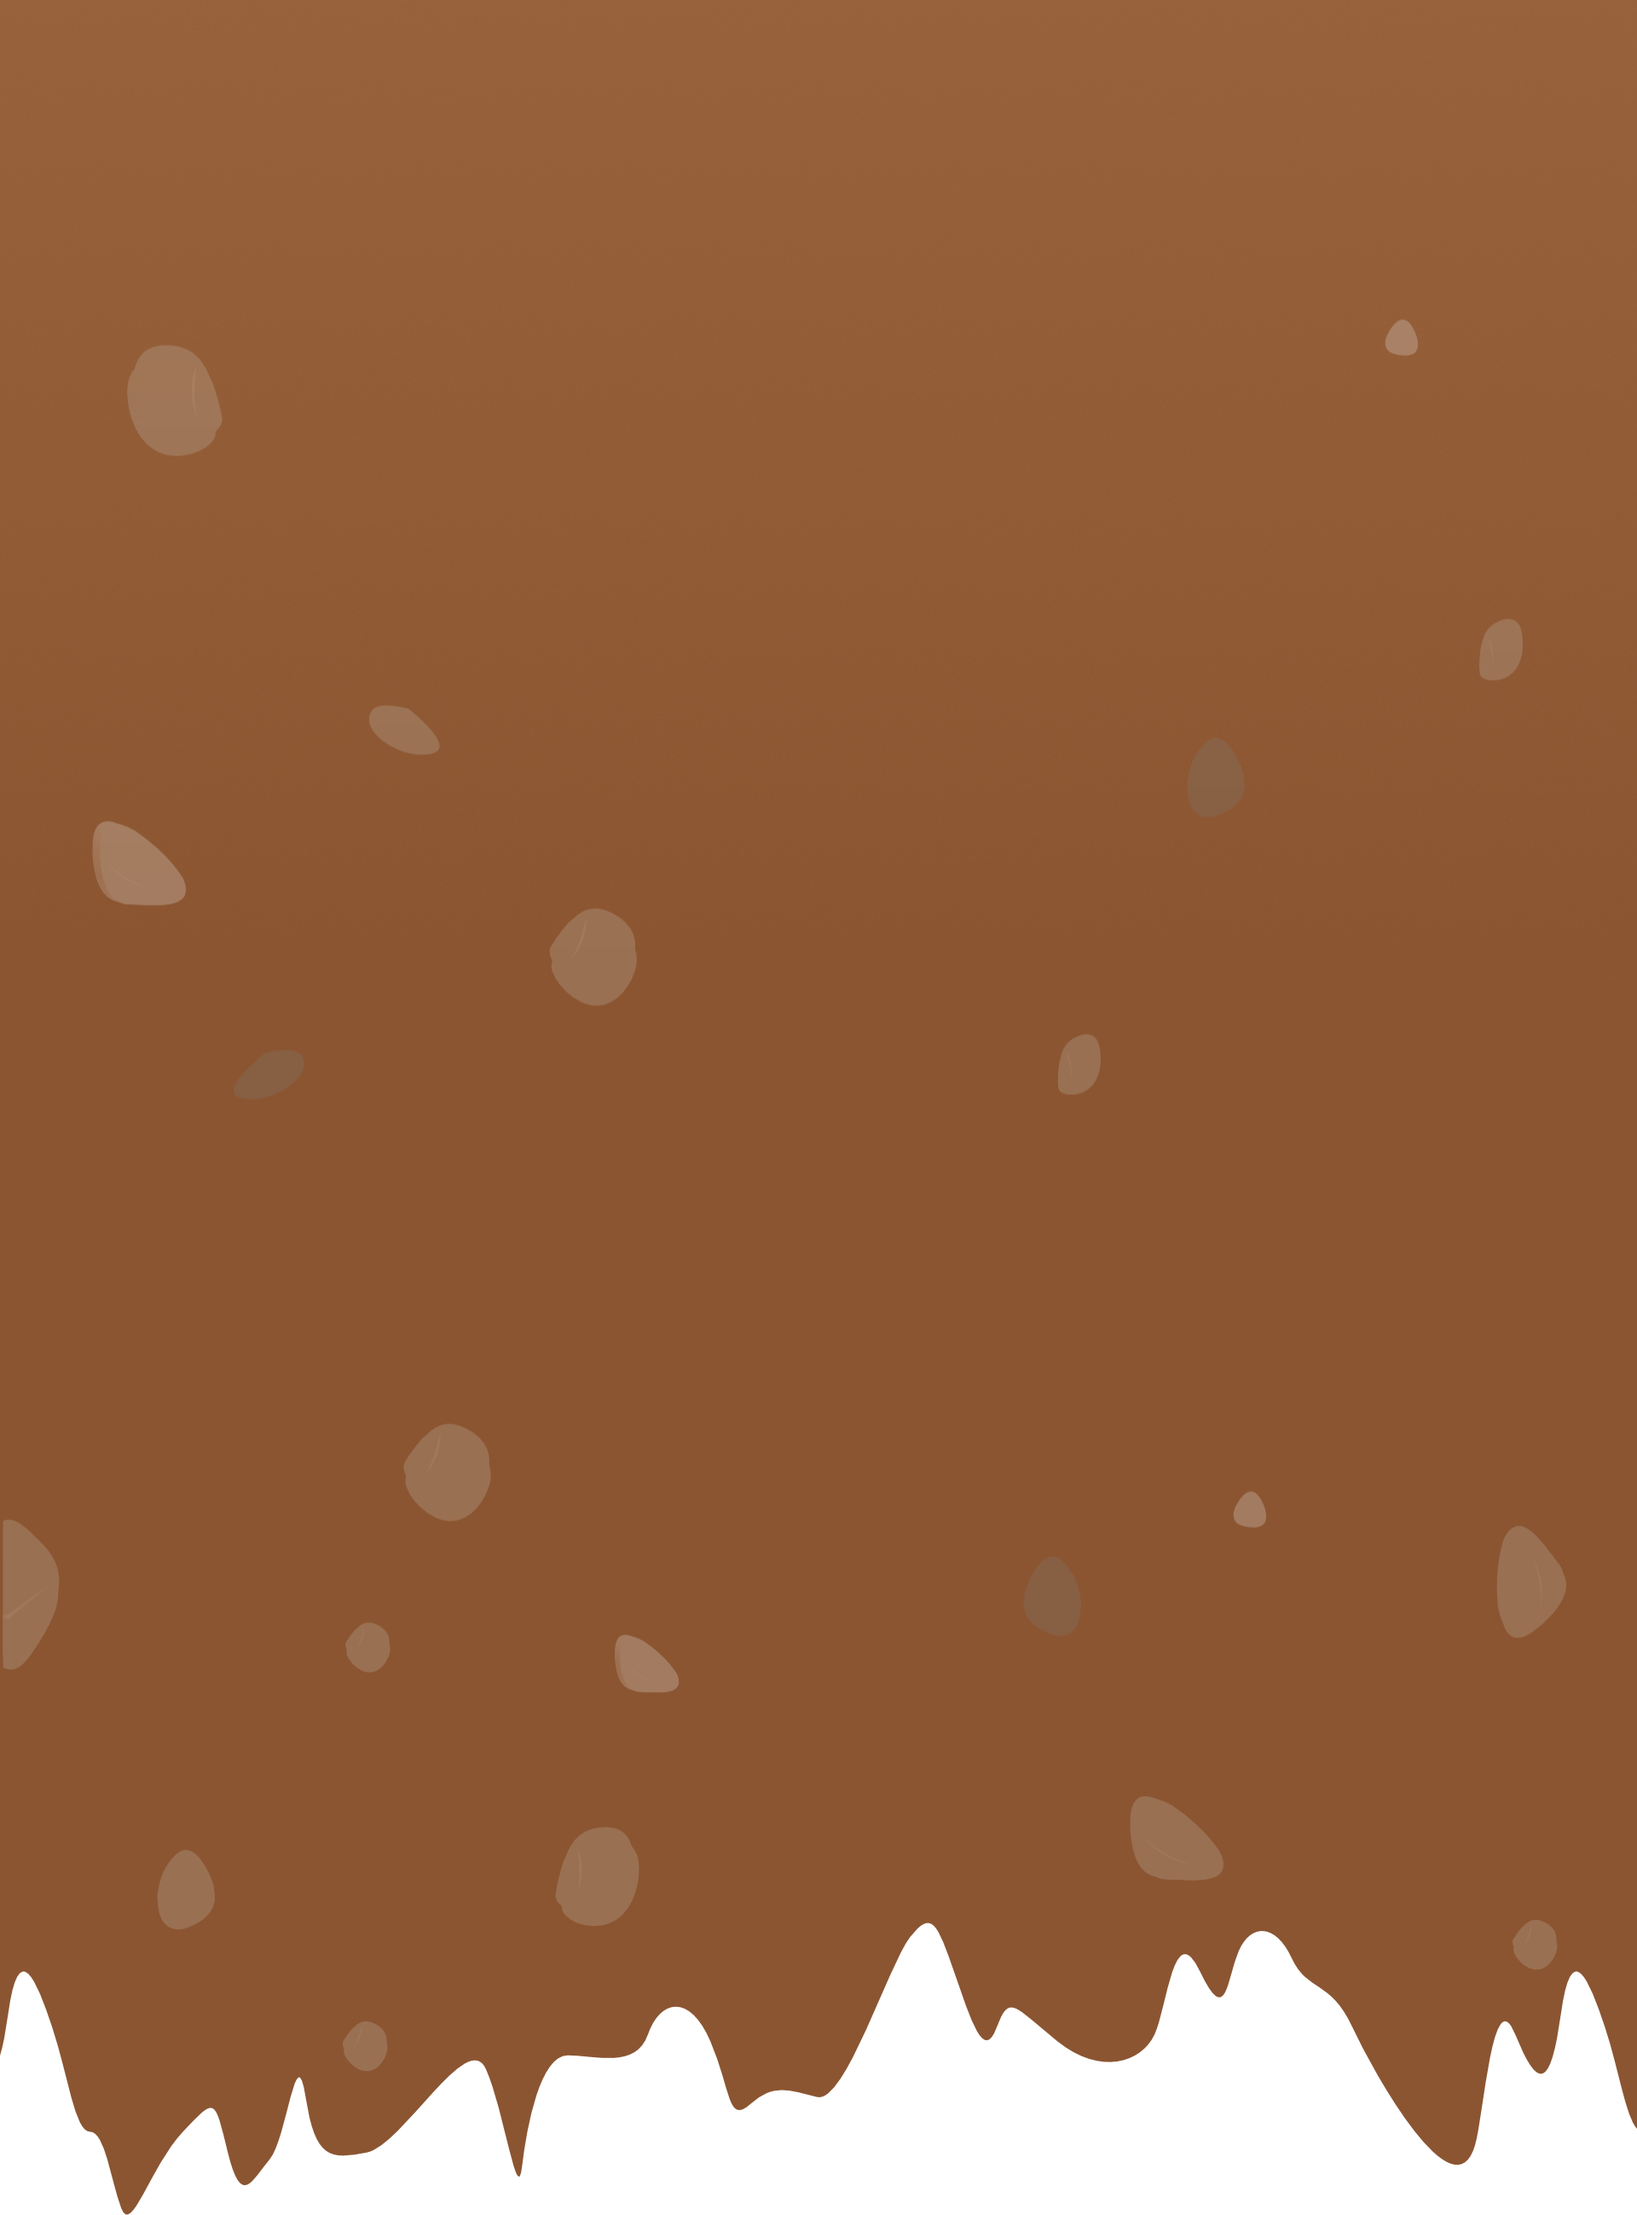
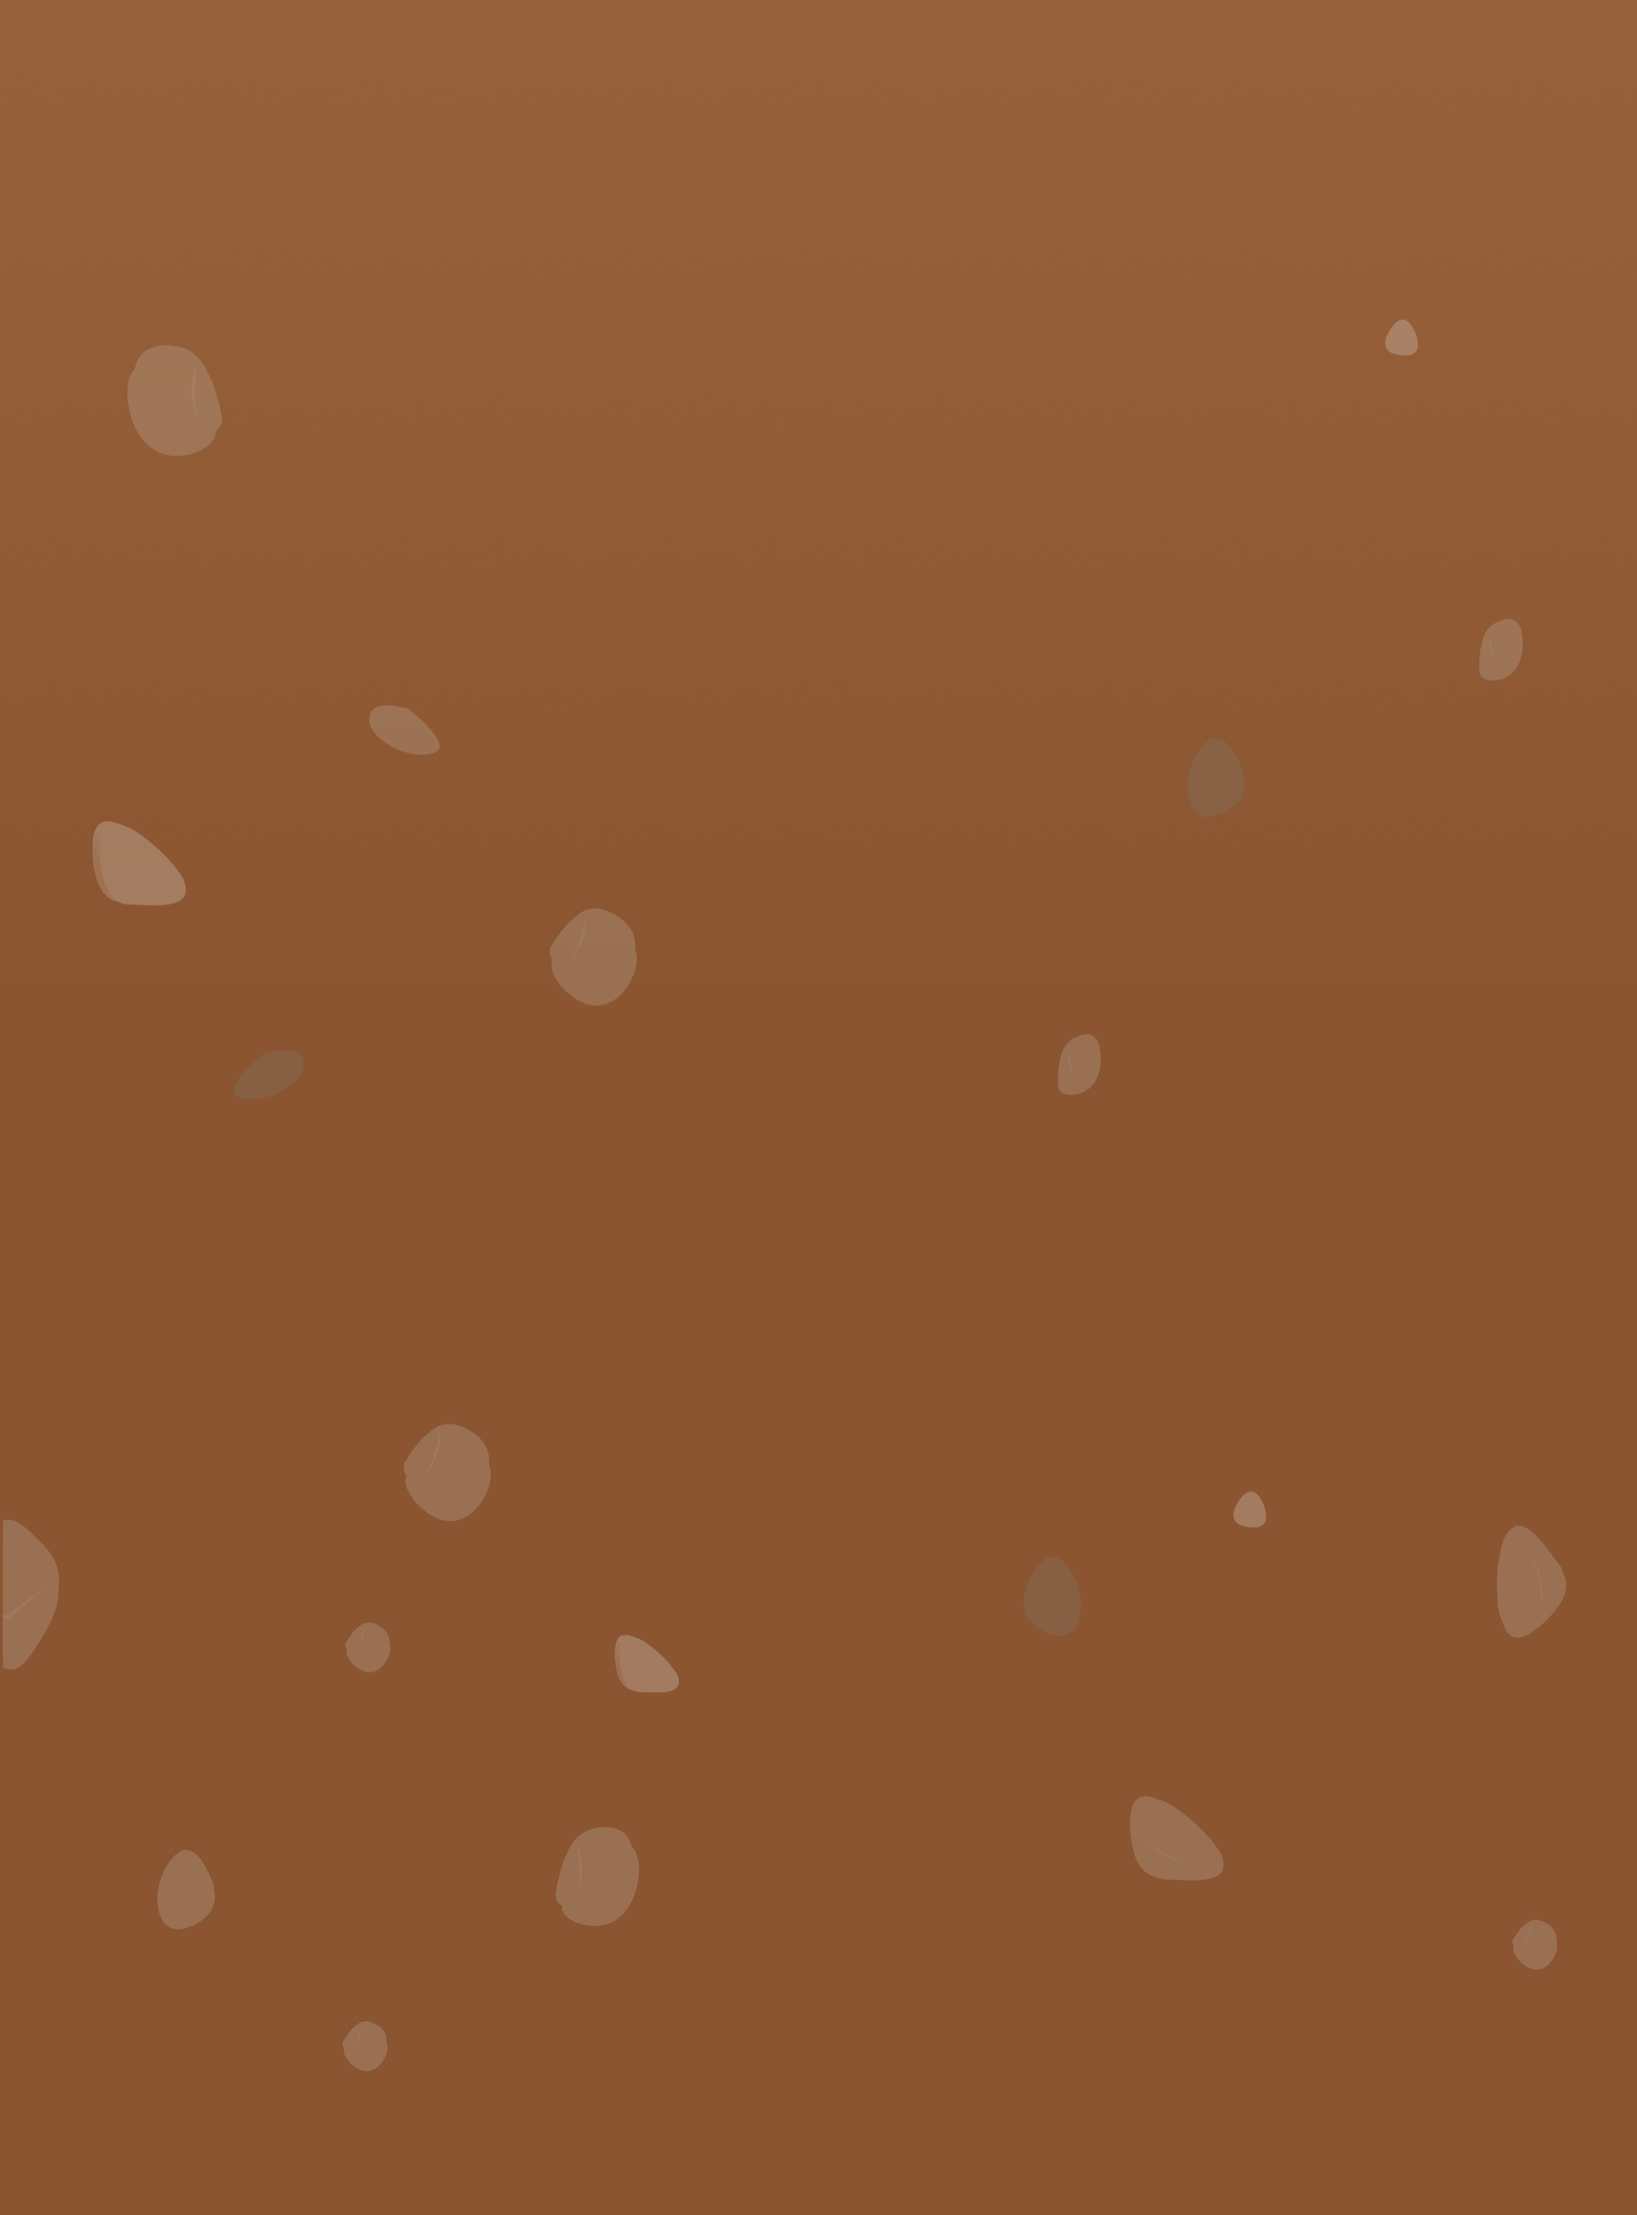
Remove comment section

Changed region(s): [[0.0, 0.8733, 1.0, 1.0]]

diff --git a/pages/index.vue b/pages/index.vue
@@ -198,31 +198,6 @@
         </div>
       </div>
     </section>
-    <section id="scene6">
-      <div class="contents">
-        <div class="comment_box">
-          <div id="comment" class="heading">
-            <img src="/imgs/home/scene6/heading.png" alt="" />
-          </div>
-          <div class="textarea">
-            <div class="bg">
-              <img alt="" src="/imgs/home/scene6/input.png" />
-            </div>
-            <div class="input">
-              <textarea> </textarea>
-            </div>
-          </div>
-          <div class="bottom">
-            <div class="sent">
-              <div class="bg">
-                <img src="/imgs/home/scene6/sent.png" alt="" />
-              </div>
-              <button></button>
-            </div>
-          </div>
-        </div>
-      </div>
-    </section>
     <footer>
       <img src="/imgs/home/footer_text.png" alt="" />
     </footer>
@@ -243,8 +218,7 @@ var scene1,
   scene4_2,
   scene4_3,
   scene5,
-  scene5_2,
-  scene6
+  scene5_2
 
 export default {
   components: {
@@ -407,20 +381,6 @@ export default {
       )
       .addIndicators()
 
-    scene6 = this.$scrollmagic
-      .scene({
-        triggerElement: '#scene6',
-        triggerHook: 0.5,
-        duration: 200,
-        offset: '600%'
-      })
-      .setTween(
-        TweenMax.from('#scene6 .contents', 1, {
-          y: '50%'
-        })
-      )
-      .addIndicators()
-
     this.$scrollmagic.addScene(scene1)
     this.$scrollmagic.addScene(scene2)
     this.$scrollmagic.addScene(scene3)
@@ -430,7 +390,6 @@ export default {
     this.$scrollmagic.addScene(scene4_2)
     this.$scrollmagic.addScene(scene4_3)
     this.$scrollmagic.addScene(scene5)
-    this.$scrollmagic.addScene(scene6)
 
     // this.$scrollmagic.handleScrollTo = function(target) {
     //   TweenMax.to(window, 0, {
@@ -450,7 +409,6 @@ export default {
     this.$scrollmagic.removeScene(scene4_2)
     this.$scrollmagic.removeScene(scene4_3)
     this.$scrollmagic.removeScene(scene5)
-    this.$scrollmagic.removeScene(scene6)
   },
   methods: {
     openHistory() {
@@ -1093,92 +1051,12 @@ section {
     }
   }
 }
-#scene6 {
-  background-color: #493022;
-  margin-top: -100vh;
-  margin-bottom: -60vh;
-  padding-top: 100vh;
-  padding-bottom: 60vh;
-  min-height: 220vh;
-
-  .contents {
-    max-width: 680px;
-    width: 100%;
-    margin: auto;
-  }
-
-  .comment_box {
-    position: relative;
-
-    .heading {
-      max-width: 250px;
-      width: 100%;
-      img {
-        width: 100%;
-      }
-    }
-
-    .textarea {
-      position: relative;
-
-      .bg {
-        width: 100%;
-        img {
-          width: 100%;
-          user-select: none;
-        }
-      }
-      .input {
-        position: absolute;
-        width: 80%;
-        height: 80%;
-        top: 10%;
-        left: 10%;
-      }
-      textarea {
-        width: 100%;
-        height: 100%;
-        background-color: transparent;
-        border: transparent;
-      }
-    }
-
-    .bottom {
-      padding-top: 30px;
-      display: flex;
-      justify-content: flex-end;
-      align-items: flex-end;
-    }
-
-    .sent {
-      max-width: 150px;
-      width: 100%;
-      position: relative;
-
-      .bg {
-        img {
-          width: 100%;
-        }
-      }
-
-      button {
-        position: absolute;
-        top: 0;
-        left: 0;
-        width: 100%;
-        height: 100%;
-        background-color: transparent;
-        border: transparent;
-      }
-    }
-  }
-}
 
 footer {
   height: fit-content;
   padding-top: 100px;
   margin-bottom: -10px;
-  background-color: transparent;
+  background-color: #8b5531;
   background-image: url('/imgs/home/footer.png');
   background-size: 100% 100%;
 
